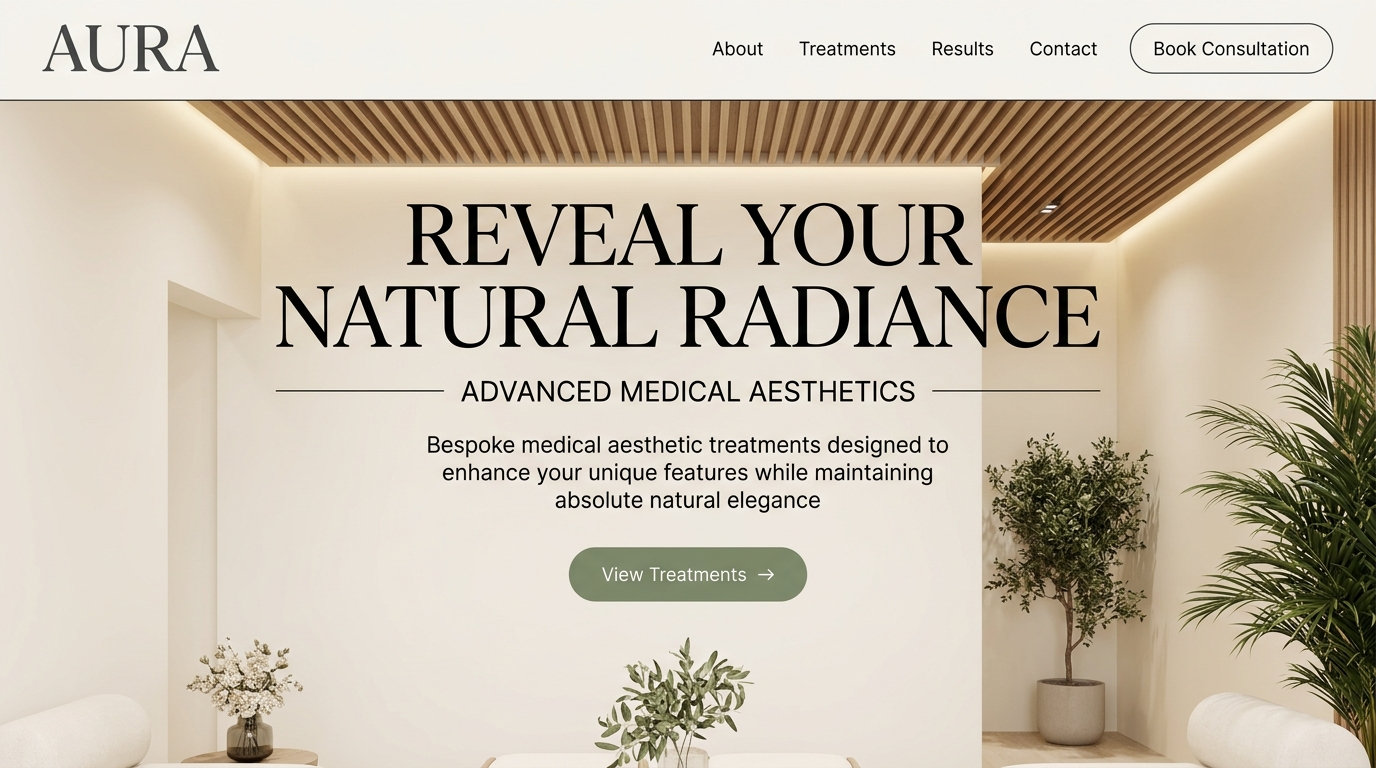
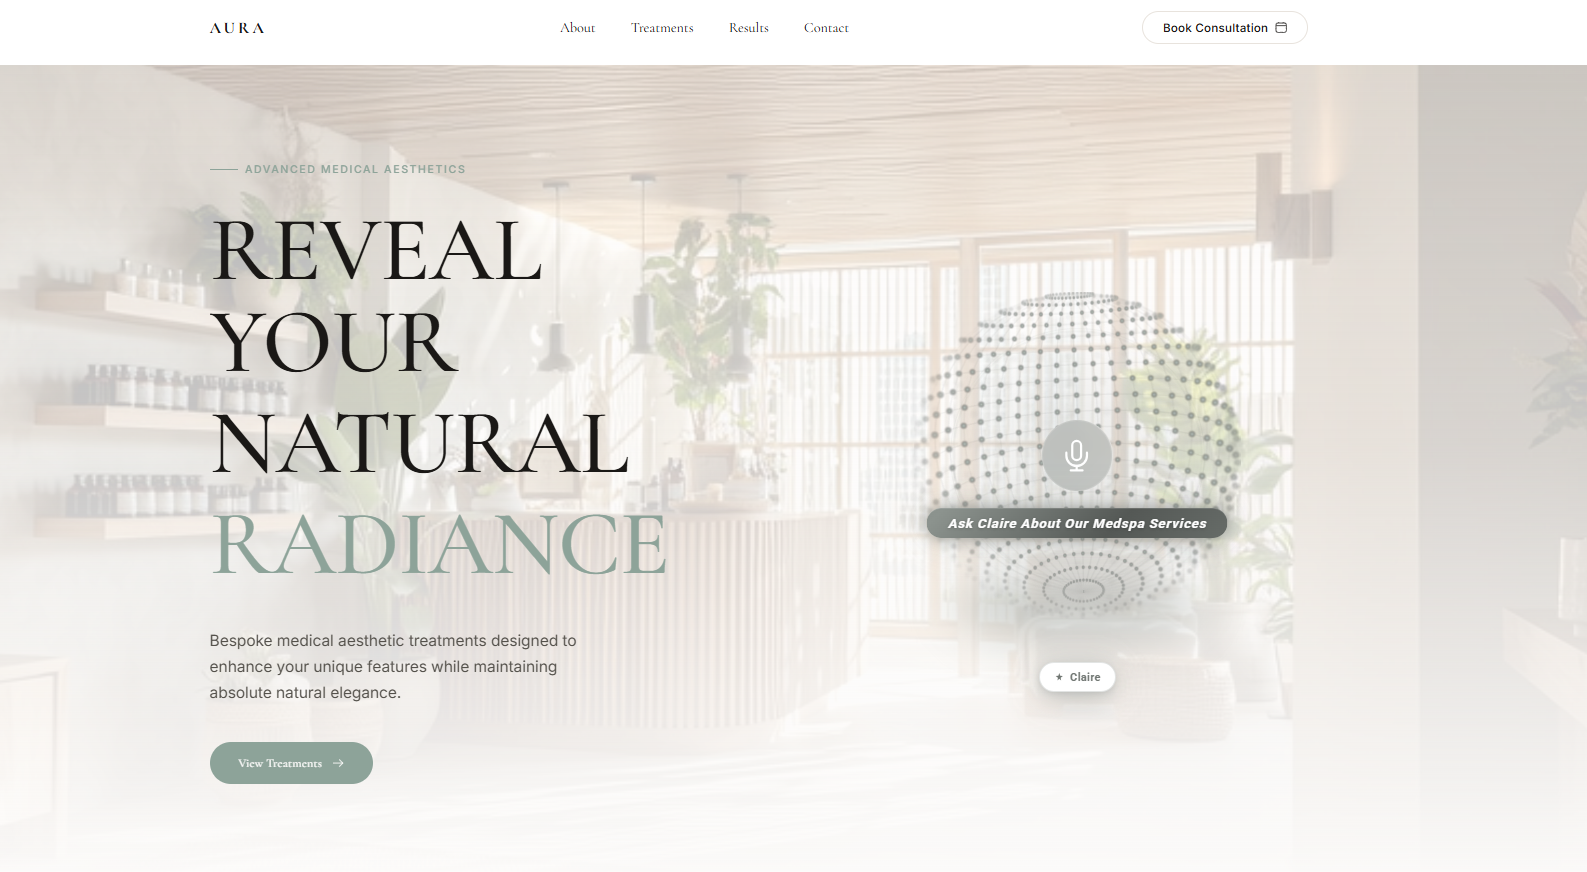
feat: add Echo Voice Labs branding to navigation
Replace the generic soundwave icon in the header with the official Echo Voice Labs steel logo.

diff --git a/src/App.tsx b/src/App.tsx
@@ -2,7 +2,8 @@ import React, { useState, useEffect, useRef } from 'react';
 import auraMedspaDemo from './assets/images/aura_medspa_demo_1779310747950.png';
 import dermabrasionBefore from './assets/images/dermabrasion_before_1779321010455.png';
 import dermabrasionAfter from './assets/images/dermabrasion_after_1779321030371.png';
-import instagramAesthetic from './assets/images/instagram_aesthetic_1779322358897.png';
+import instagramAesthetic from './assets/images/instagram_aesthetic.png';
+import echoVoiceLabsLogoSteel from './assets/images/echo_voice_labs-logo_steel.png';
 import { 
   Sparkles, 
   Check, 
@@ -233,21 +234,16 @@ export default function App() {
 
       {/* HEADER / NAVIGATION */}
       <nav id="nav-header" className="relative z-50 bg-brand-navy border-b border-white/10 px-6 py-4 md:px-12 flex justify-between items-center">
-        <a href="#hero" className="flex items-center gap-3">
-          <div className="relative w-10 h-10 rounded-xl bg-gradient-to-tr from-brand-orange to-brand-lavender flex items-center justify-center shadow-lg shadow-brand-orange/15 outline outline-1 outline-white/10">
-            {/* High-fidelity Vector Soundwave Voice Logo representing EchoVoice Labs */}
-            <svg className="w-5.5 h-5.5 text-white" viewBox="0 0 24 24" fill="none" xmlns="http://www.w3.org/2000/svg">
-              <rect x="3" y="10" width="2" height="4" rx="1" fill="currentColor" className="opacity-40" />
-              <rect x="7" y="6" width="2" height="12" rx="1" fill="currentColor" className="opacity-75" />
-              <rect x="11" y="3" width="2" height="18" rx="1" fill="currentColor" />
-              <rect x="15" y="5" width="2" height="14" rx="1" fill="currentColor" className="opacity-90" />
-              <rect x="19" y="9" width="2" height="6" rx="1" fill="currentColor" className="opacity-50" />
-            </svg>
-          </div>
-          <div className="flex flex-col">
-            <span className="font-display font-black text-sm text-white tracking-widest uppercase">EchoVoice</span>
-            <span className="text-[10px] text-brand-lightblue tracking-widest font-mono uppercase">Labs</span>
-          </div>
+        <a href="#hero" className="flex items-center">
+          <img 
+            src={echoVoiceLabsLogoSteel} 
+            alt="Echo Voice Labs Logo" 
+            className="h-10 md:h-12 w-auto object-contain"
+            onError={(e) => {
+              e.currentTarget.style.display = 'none';
+            }}
+            referrerPolicy="no-referrer"
+          />
         </a>
         <div className="flex items-center gap-4">
           <a 
@@ -330,7 +326,6 @@ export default function App() {
                 src="claire_video.mp4"
                 poster={videoPoster}
                 playsInline
-                loop
                 muted={videoMuted}
                 onTimeUpdate={() => {
                   if (videoRef.current) {
@@ -358,7 +353,7 @@ export default function App() {
 
             {/* Dynamic AI Voice Wave Visualizer Overlay (shown overlaying Claire's image during simulated or regular play) */}
             {videoPlaying && (
-              <div className="absolute inset-0 bg-black/45 backdrop-blur-[0.5px] flex flex-col justify-end pb-24 z-10 shadow-inner pointer-events-none transition-all duration-300">
+              <div className="absolute inset-0 flex flex-col justify-end pb-24 z-10 pointer-events-none transition-all duration-300">
                 {/* Visualizer glowing pulse ripple circles */}
                 <div className="absolute inset-0 flex items-center justify-center opacity-80 overflow-hidden">
                   <div className="w-[180px] h-[180px] rounded-full border-2 border-brand-orange/20 animate-ping absolute opacity-30" />
@@ -1694,22 +1689,17 @@ export default function App() {
       {/* FOOTER */}
       <footer id="footer" className="bg-brand-navy text-white/50 border-t border-white/5 px-6 py-12 md:px-12 flex flex-col md:flex-row justify-between items-center gap-6 text-xs text-center md:text-left">
         <div className="space-y-2">
-          <div className="flex items-center justify-center md:justify-start gap-2.5 text-white">
-            <div className="w-6 h-6 rounded-lg bg-gradient-to-tr from-brand-orange to-brand-lavender flex items-center justify-center shadow-sm border border-white/10">
-              {/* Matching Soundwave brand mark for EchoVoice Labs inside footer */}
-              <svg className="w-4 h-4 text-white" viewBox="0 0 24 24" fill="none" xmlns="http://www.w3.org/2000/svg">
-                <rect x="4" y="10" width="2" height="4" rx="0.5" fill="currentColor" className="opacity-50" />
-                <rect x="8" y="6" width="2" height="12" rx="0.5" fill="currentColor" className="opacity-80" />
-                <rect x="12" y="3" width="2" height="18" rx="0.5" fill="currentColor" />
-                <rect x="16" y="5" width="2" height="14" rx="0.5" fill="currentColor" className="opacity-90" />
-                <rect x="20" y="8" width="2" height="8" rx="0.5" fill="currentColor" className="opacity-60" />
-              </svg>
-            </div>
-            <span className="font-display font-bold text-sm uppercase tracking-widest">ECHOVOICE LABS</span>
+          <div className="flex items-center justify-center md:justify-start">
+            <img 
+              src={echoVoiceLabsLogoSteel} 
+              alt="Echo Voice Labs Logo" 
+              className="h-8 md:h-10 w-auto object-contain"
+              onError={(e) => {
+                e.currentTarget.style.display = 'none';
+              }}
+              referrerPolicy="no-referrer"
+            />
           </div>
-          <p className="font-mono text-[10px]">A Rhombus Corp Company</p>
-          <a href="mailto:[email redacted]" className="hover:text-brand-orange tracking-wider block font-mono text-[11px]">[email redacted]</a>
-          <span className="text-[10px] block font-mono text-brand-lightblue">medspa.echovoicelabs.com</span>
         </div>
 
         <div className="space-y-3">